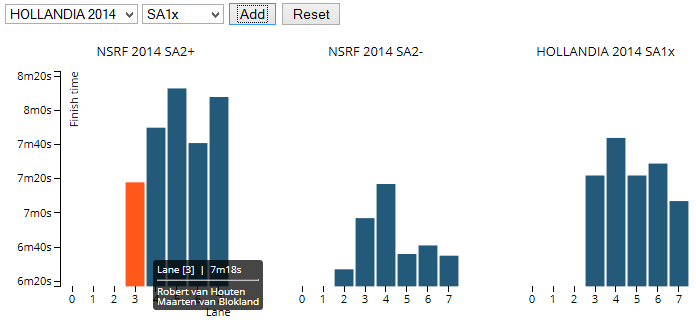
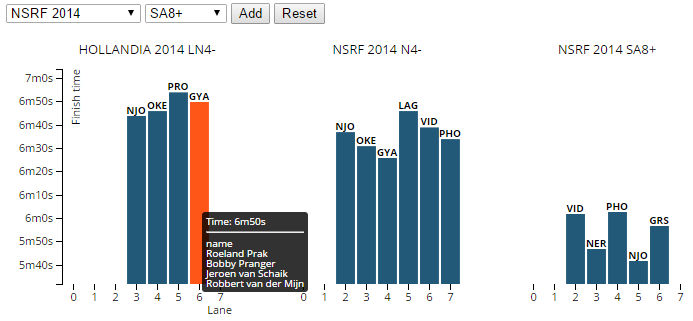
updated figures, some minor coding edits

diff --git a/website/script/main.js b/website/script/main.js
@@ -193,6 +193,7 @@ function heat_graph(json_file_loc, element, fieldlist) {
                 .style("text-anchor", "end")
                 .text(function() {if (iter < 1) { return "Lane"}}); 
 
+            // only add the y-axis on first viz
             if (iter < 1) {
                 svg.append("g")
                     .attr("class", "y axis")
@@ -215,6 +216,7 @@ function heat_graph(json_file_loc, element, fieldlist) {
 
             var tip = d3.select("#tooltip") 
 
+            // add the bars
             svg.selectAll(".bar")
                 .data(dataset)
               .enter().append("rect")
@@ -229,13 +231,23 @@ function heat_graph(json_file_loc, element, fieldlist) {
                         .duration(100)      
                         .style("opacity", 1)
                         .style("background", "rgba(0,0,0,0.8)");      
-                    tip.html("Lane ["+ d.lane + "]&nbsp&nbsp|&nbsp&nbsp" + formatMinutes(d.times)+"<hr>" + people)     
+                    tip.html("Time: " + formatMinutes(d.times)+"<hr>" + people)     
                     }) 
                 .on("mouseout", function(d) {     
                         tip.transition()        
                             .duration(500)      
                             .style("opacity", 0);   
                     });
+
+            // crew names
+            svg.selectAll("crew_code")
+                .data(dataset)
+              .enter().append("text")
+                .attr("class", "crew_code")
+                .attr("x", function(d,i) {return x(dataset[i].lane) + 9; })             
+                .attr("y", function(d,i) {return y(dataset[i].times) - 2; })
+                .attr("text-anchor", "middle")
+                .text( function(d,i) {return dataset[i].crew })
         }
     });
 }

diff --git a/website/css/svg.css b/website/css/svg.css
@@ -70,6 +70,10 @@
   display: none;
 }
 
+.crew_code {
+  font: 10px "OpenSansBold";
+}
+
 .g_title {
   font: 13px "OpenSans";
 }
